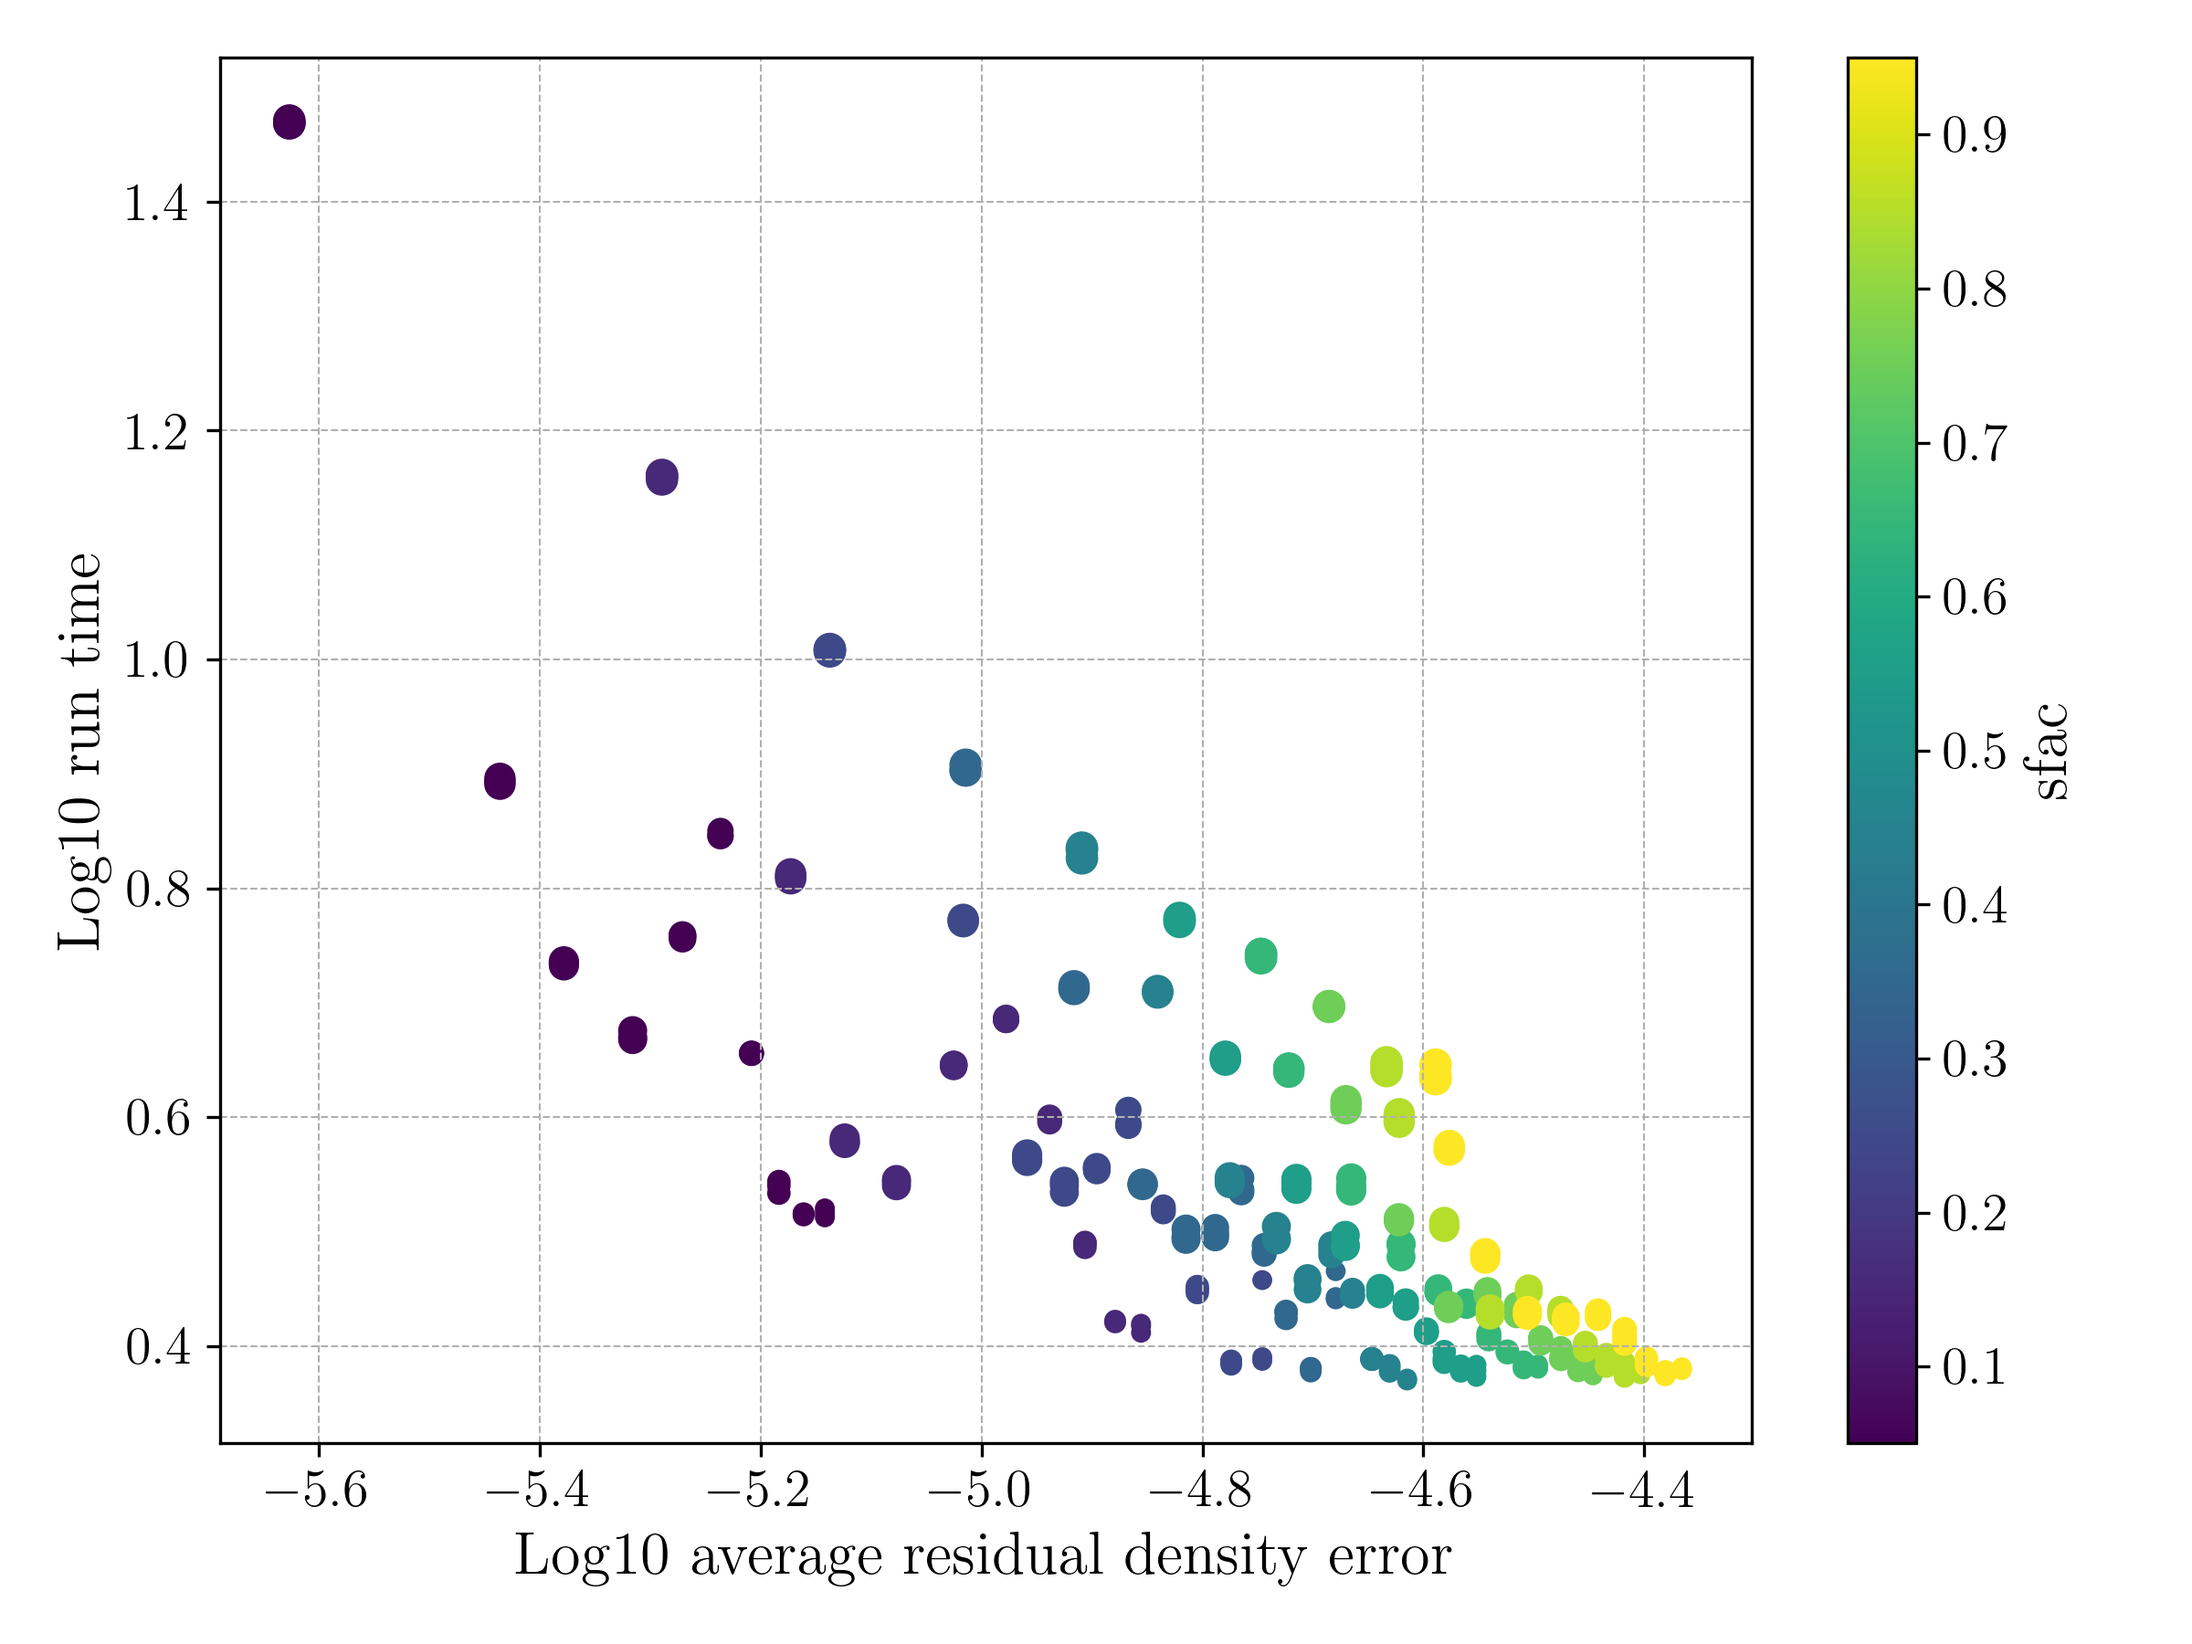
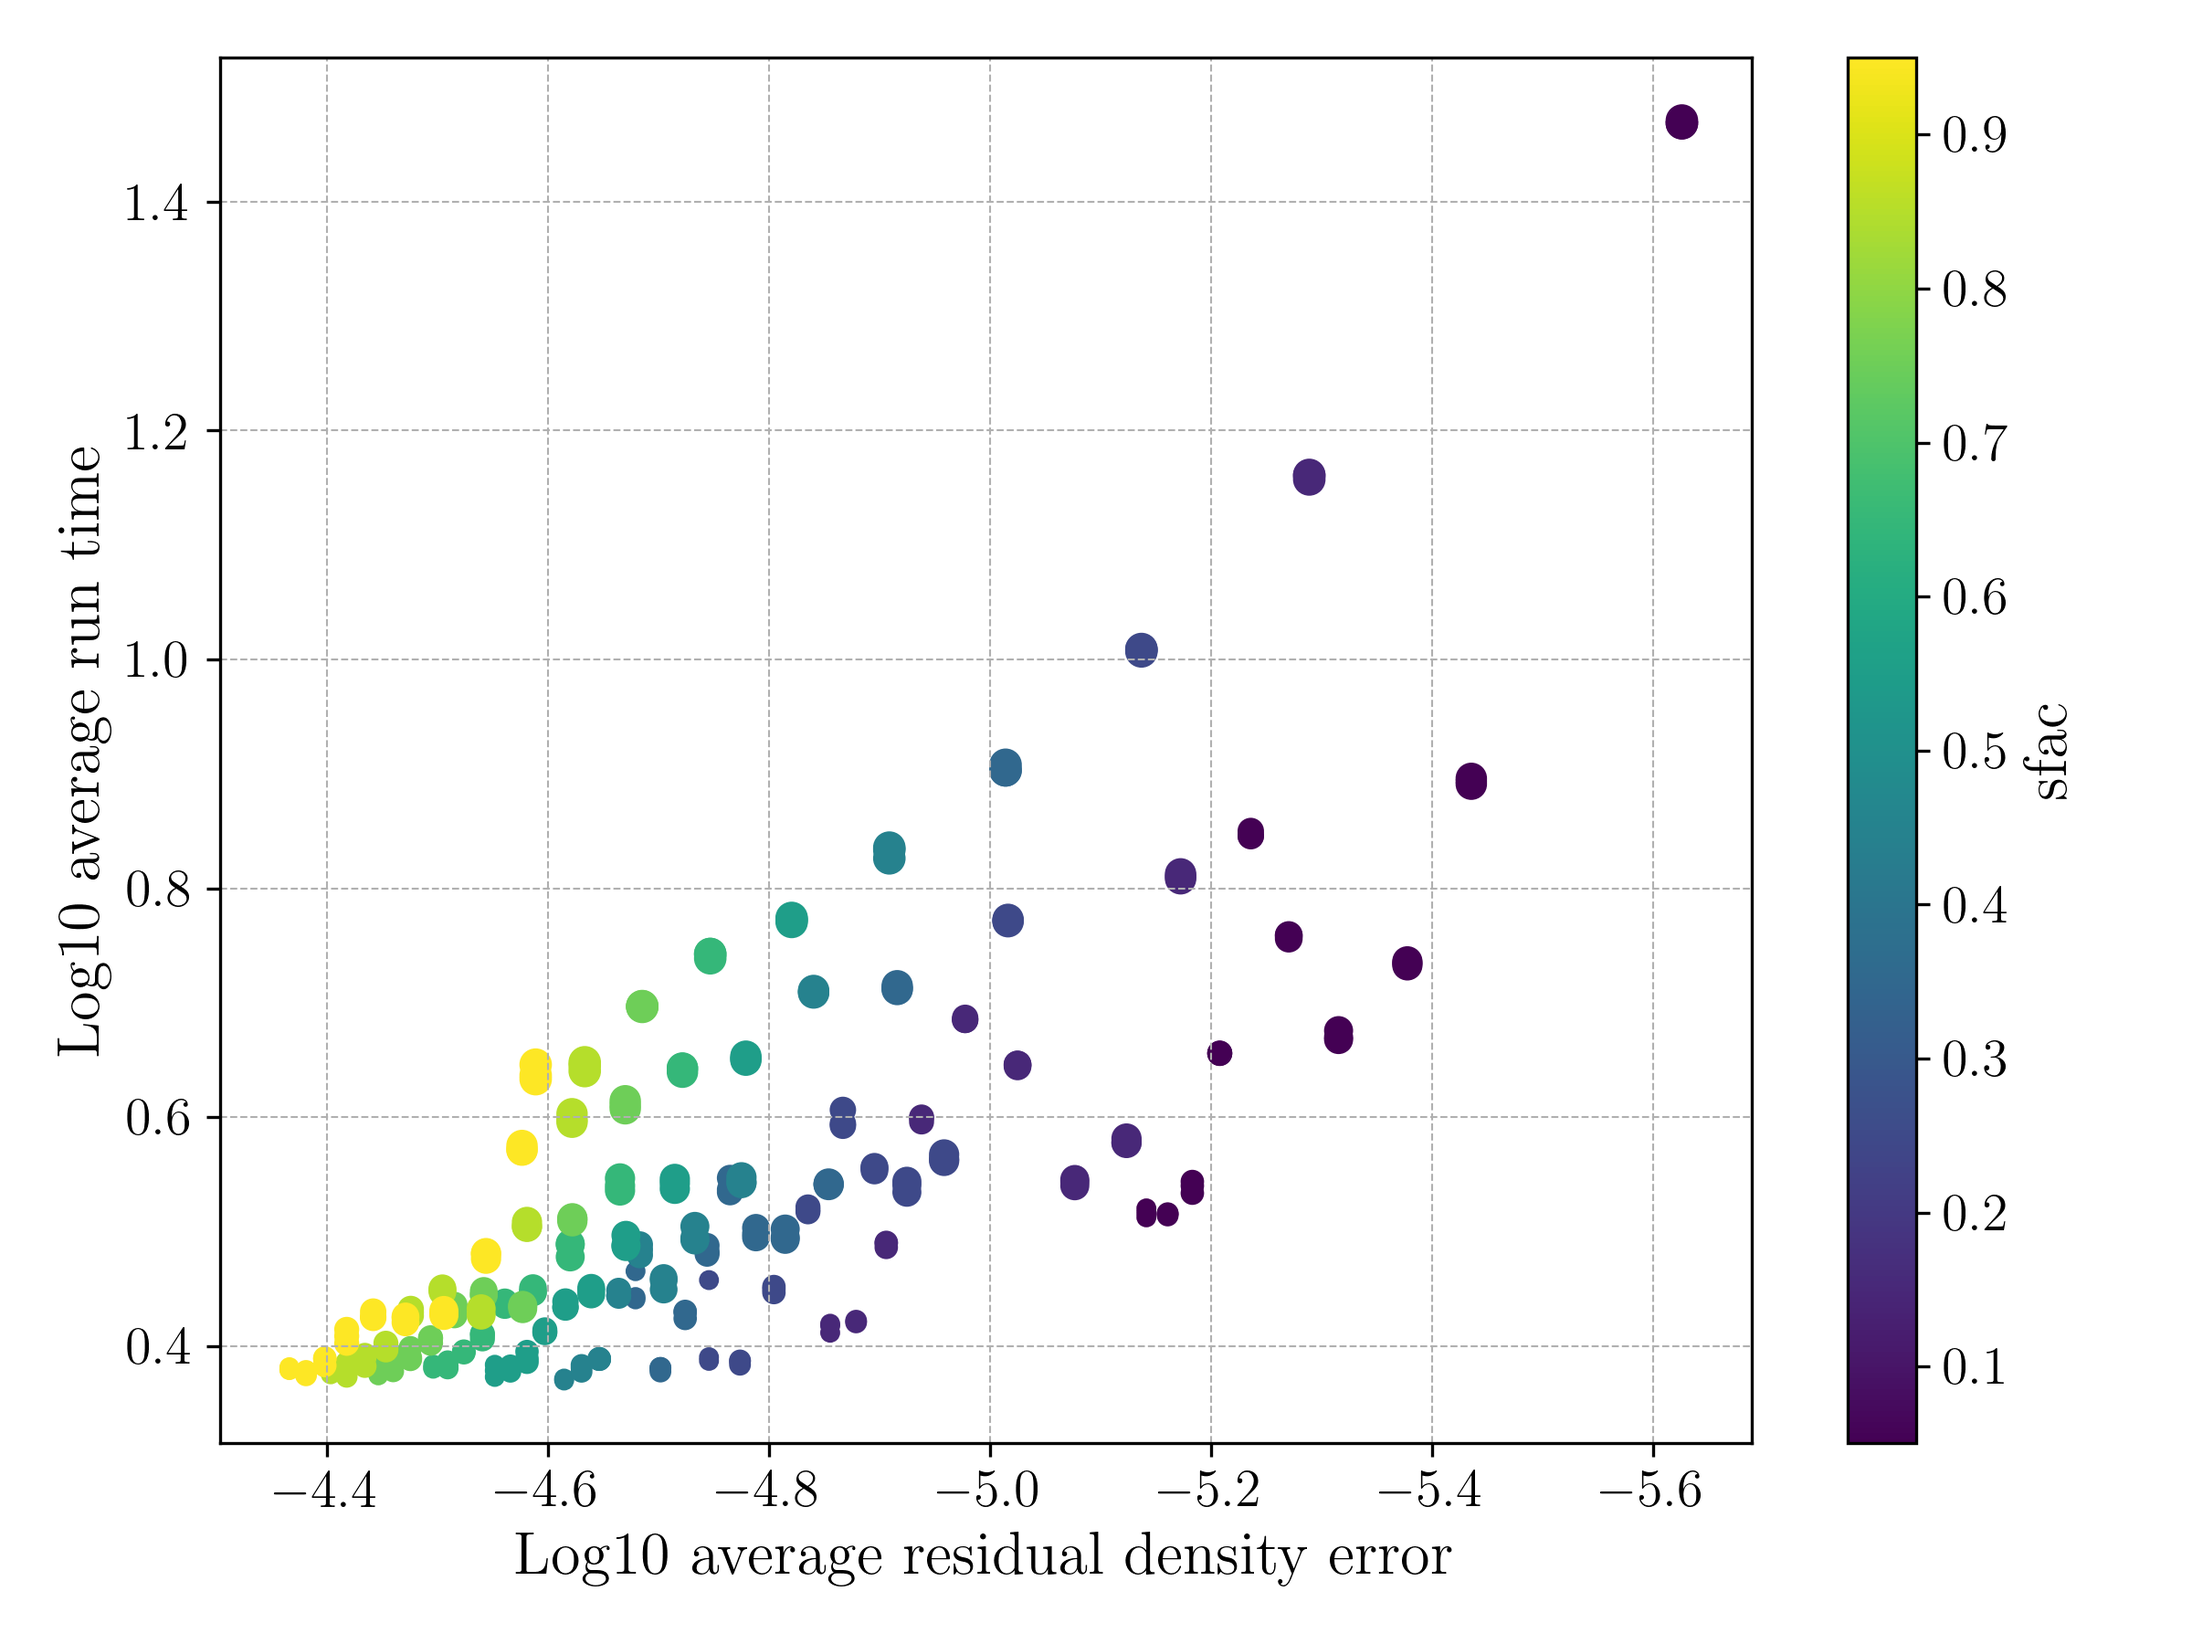
perfect graphs now to talk about them

diff --git a/report/final/improvements.py b/report/final/improvements.py
@@ -487,7 +487,9 @@ def effort_vs_accuracy_fcorr():
 
     cbar.set_label('sfac')
     ax.set_xlabel('Log10 average residual density error')
-    ax.set_ylabel('Log10 run time')
+    ax.set_ylabel('Log10 average run time')
+    # flip x
+    ax.invert_xaxis()
 
     ax.grid( which='both', linestyle='--', linewidth=0.5)
 
@@ -518,7 +520,8 @@ def effort_vs_accuracy_sfac_res():
 
     cbar.set_label('sfac')
     ax.set_xlabel('Log10 average residual density error')
-    ax.set_ylabel('Log10 run time')
+    ax.set_ylabel('Log10 average run time')
+    ax.invert_xaxis()
 
     ax.grid( which='both', linestyle='--', linewidth=0.5)
 
@@ -541,21 +544,53 @@ def effort_vs_accuracy_cfl():
     scat = ax.scatter(
         np.log10(df['dro_avg']),
         np.log10(df['dt']),
-        c = df['sfac'],
-        s = 60*df['cfl']
+        c = np.log10(df['cfl']),
+        s = 60*df['sfac']
     )
 
     cbar = plt.colorbar(scat)
 
-    cbar.set_label('sfac')
+    cbar.set_label('Log10 cfl')
     ax.set_xlabel('Log10 average residual density error')
-    ax.set_ylabel('Log10 run time')
+    ax.set_ylabel('Log10 average run time')
+    ax.invert_xaxis()
 
     ax.grid( which='both', linestyle='--', linewidth=0.5)
 
     fig.tight_layout()
 
     fig.savefig('report/final/figures/effort_vs_accuracy_cfl.png', dpi=300)
+
+def effort_vs_accuracy_ni():
+    
+    df = pd.read_csv('report/final/data/smoothing_ni.csv')
+
+    df = df[df['converged'] < 2]
+
+    # aggregate by time but keep all columns
+    df = df.groupby(list(df.columns), as_index=False).agg({'dt': 'mean'})
+
+    fig, ax = plt.subplots(figsize = [8, 6])
+
+    scat = ax.scatter(
+        np.log10(df['dro_avg']),
+        np.log10(df['dt']),
+        c = np.log10(df['ni']),
+        s = 100 * df['sfac']
+    )
+    ax.invert_xaxis()
+
+    cbar = plt.colorbar(scat)
+
+    cbar.set_label('Log10 ni')
+    ax.set_xlabel('Log10 average residual density error')
+    ax.set_ylabel('Log10 average run time')
+
+    ax.grid( which='both', linestyle='--', linewidth=0.5)
+
+    fig.tight_layout()
+
+    fig.savefig('report/final/figures/effort_vs_accuracy_ni.png', dpi=300)
 
 if __name__ == "__main__":
 
@@ -574,6 +609,7 @@ if __name__ == "__main__":
     effort_vs_accuracy_fcorr()
     effort_vs_accuracy_sfac_res()
     effort_vs_accuracy_cfl()
+    effort_vs_accuracy_ni()
 
     plt.show()
 

diff --git a/report/final/final.tex b/report/final/final.tex
@@ -311,7 +311,7 @@ While this marginally increases the time per iteration, it reduces the number of
 \begin{figure}[H]
     \begin{subfigure}{0.49\textwidth}
         \centering
-        \includegraphics[width=0.7\textwidth]{figures/effort_vs_accuracy_sfac_res.png}
+        \includegraphics[width=0.99\textwidth]{figures/effort_vs_accuracy_sfac_res.png}
         \caption{Colour is \texttt{sfac} and size represents \texttt{sfac\_res}.}
         \label{fig:effort_vs_accuracy_sfac_res}
     \end{subfigure}
